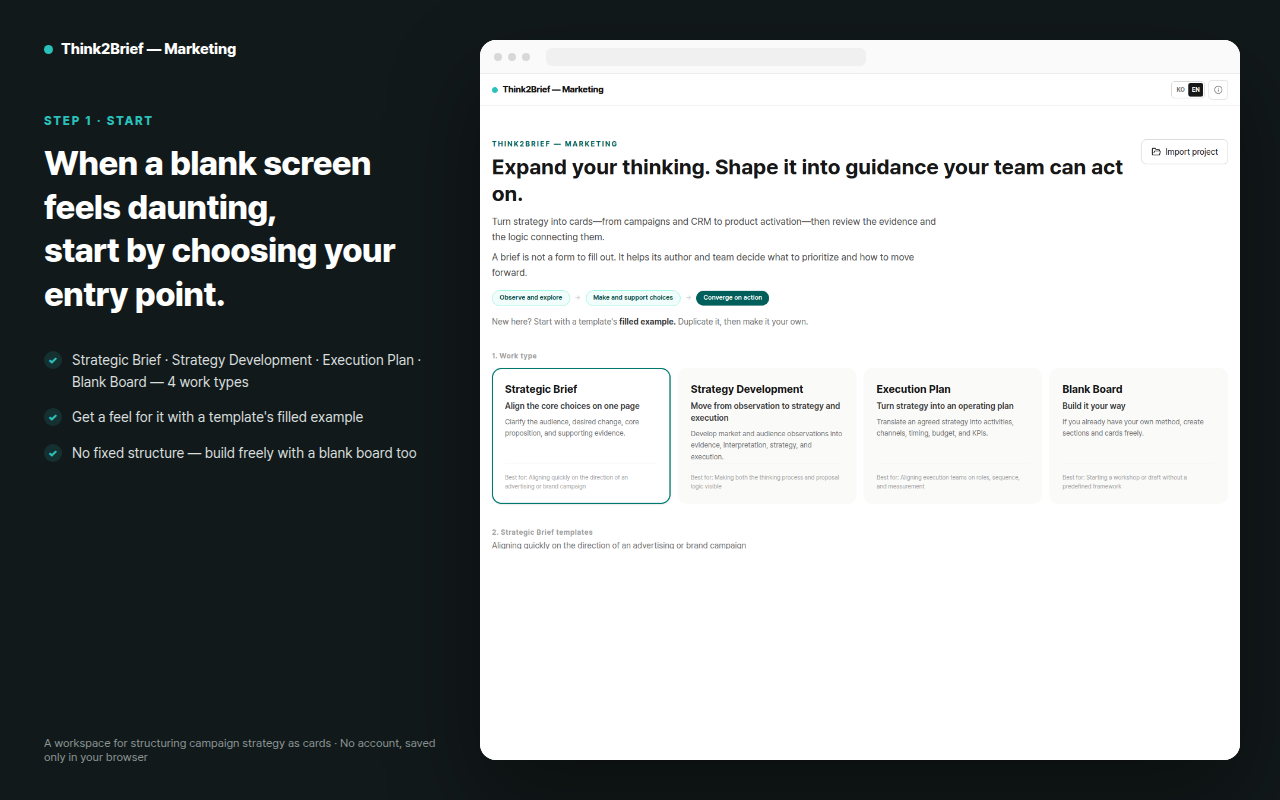
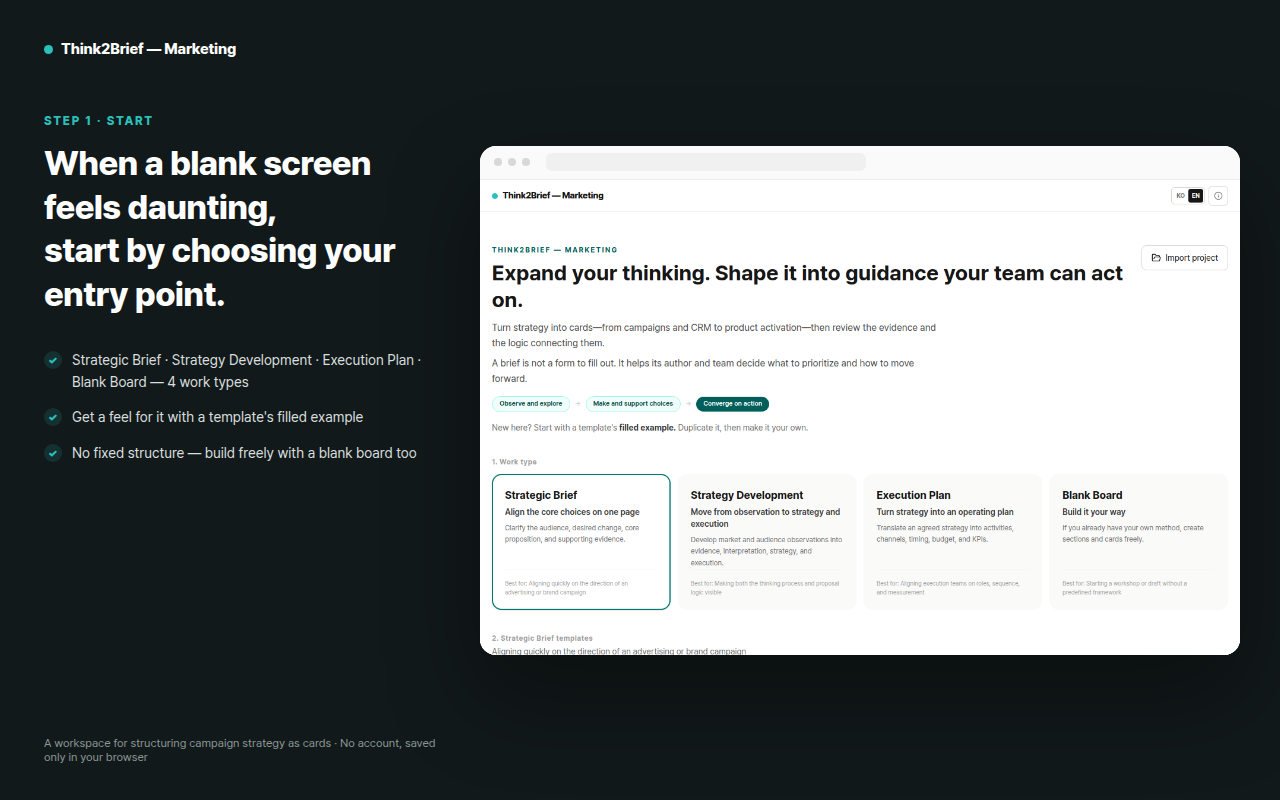
Fix cropped/gapped screenshots in the Chrome Web Store cards
The browser-mockup frame had a fixed height (flex:1 filling the
column) while the screenshot inside was sized by width only. Since
each step's source screenshot has a different aspect ratio, that
mismatch either left dead white space below the image (steps with a
shorter capture) or made it look cropped (steps with a taller one).

Size the frame to the image instead: width: 100%; height: auto on the
screenshot, frame sized by its content and centered in the card. No
forced height, so nothing gets cropped or left with a gap.

diff --git a/site/assets/store/README.md b/site/assets/store/README.md
@@ -26,6 +26,12 @@ built-in "F&B Brand Social Channel Refresh" example
    committed here to avoid bundling a duplicate copy of the Pretendard font
    and a cross-repo build dependency into this repository).
 
+**Gotcha**: size the browser-mockup frame to the screenshot's own scaled
+height (`width: 100%; height: auto` on the image, frame sized by content) —
+don't force a fixed frame height. Each step's source screenshot has a
+different aspect ratio, so a fixed height either crops the image or leaves
+dead white space below it depending on the step.
+
 Update these whenever the extension's English copy or the example content
 changes enough that the screenshots would look stale next to the real
 product.
